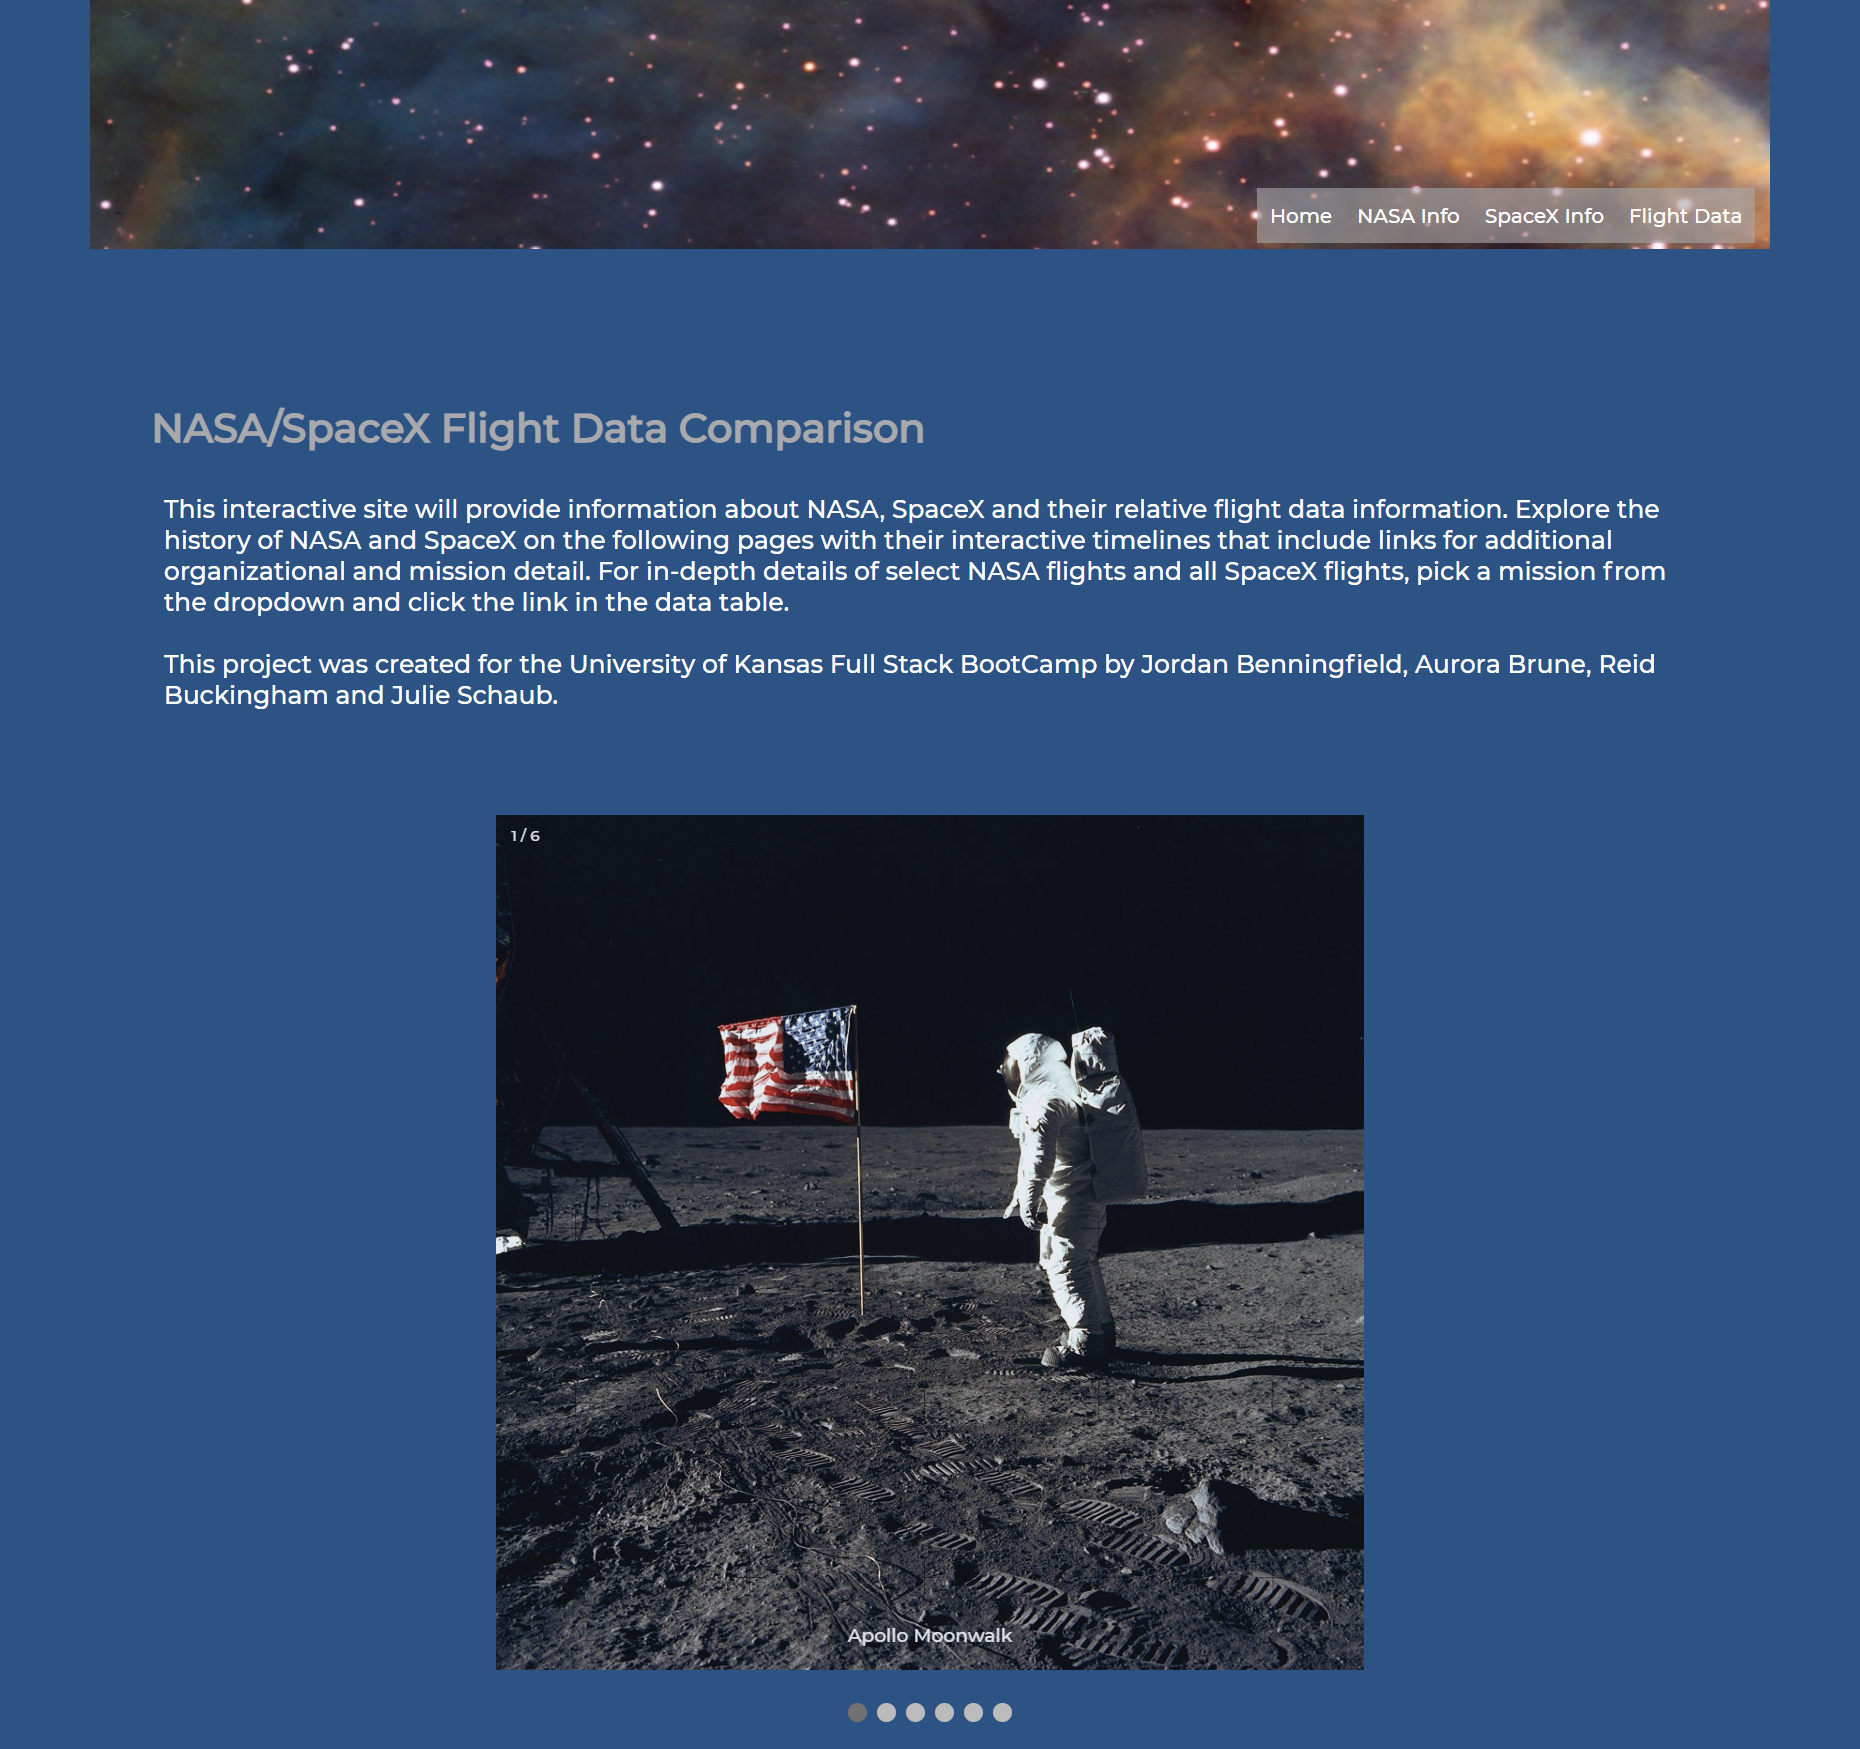
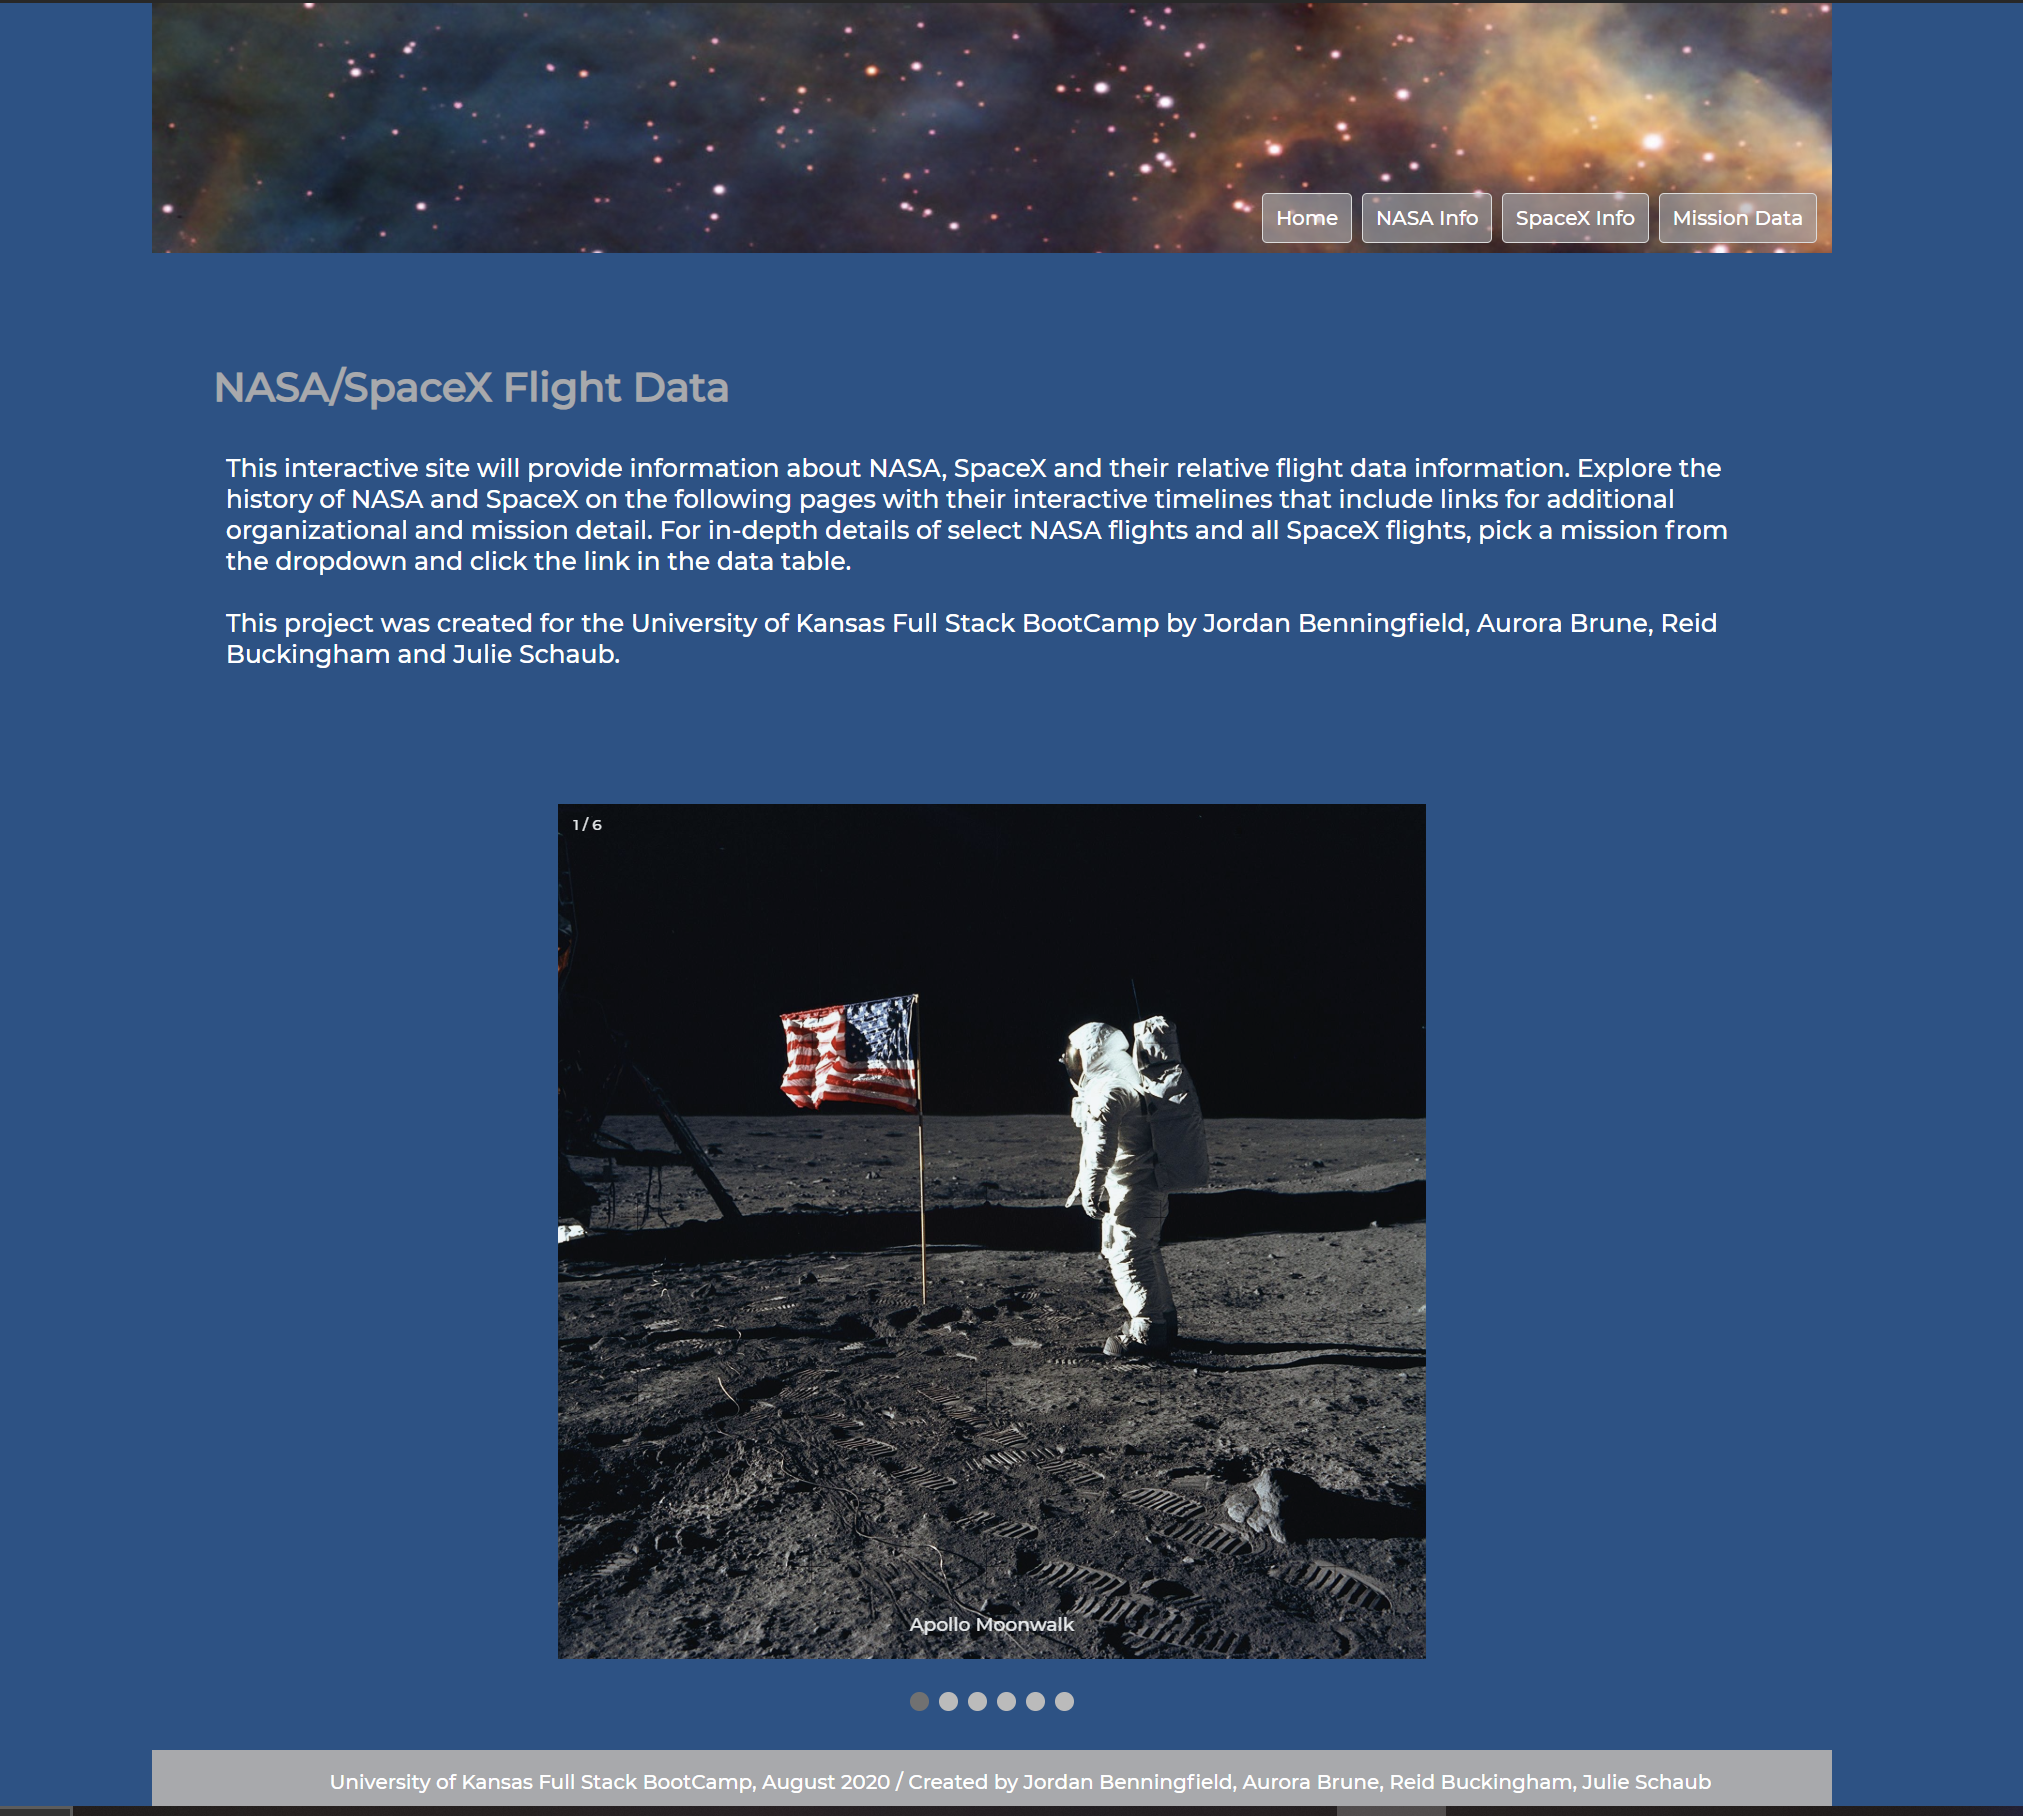
final files

diff --git a/portfolio.html b/portfolio.html
@@ -20,8 +20,8 @@
   <link href="https://fonts.googleapis.com/css2?family=Montserrat:wght@500&display=swap" rel="stylesheet">
   <link href="https://fonts.googleapis.com/css2?family=Merienda:wght@700&display=swap" rel="stylesheet">
       <!-- Link to favicon -->
-  <link rel="shortcut icon" href="ImageAssets/ampersand.png">
-  <title>Home-Portfolio</title>
+      <link rel="shortcut icon" href="./Assets/midtown fullstack Logo.png">
+  <title>Portfolio Page-Portfolio</title>
 </head>
 
 <body id="body">
@@ -29,7 +29,7 @@
   <div class="block">
     <nav class="navbar" id=navbar role="navigation" aria-label="main navigation">
     <div class="navbar-brand">
-     <img src="./Assets/ampersand.png" alt="Ampersand">
+      <img src="./Assets/midtown fullstack Logo.png" alt="Midtown FullStack Logo">
       </a>
   
     <div id="navbarBasicExample">
@@ -71,48 +71,52 @@
               <div id="carousel-demo" class="carousel">
                 <div class="item-1">
                   <img id="slidePics" src="./Assets/SpaceX2.png" alt="Spacex Project" style="width:500px"><br><br>
-                  <h3 class="title is-3" id="description">Description of Project: This interactive site provides information about NASA, SpaceX and their 
+                  <h3 class="title is-3" id="description">Project Title: Spacex/NASA Flight Data - Group Project 1<br>
+                    Description of Project: This interactive site provides information about NASA, SpaceX and their 
                     relative flight data information. Explore the history of NASA and SpaceX on the following pages with their interactive timelines that 
                     include links for additional organizational and mission detail. For in-depth details of select NASA flights and all SpaceX flights, pick 
                     a mission from the dropdown and click the link in the data table.<br>
                     Technologies Used: HTML, Bulma, CSS, Javascript, jQuery, AJAX, API Calls NASA, SpaceX and DarkSky, moment.js<br>
-                    Grade: Pending<br>
-                    Link to GitHub:  <a href="https://github.com/reidbuckingham48/spacex-nasa-flight-data-comparison" target="_blank"> https://github.com/reidbuckingham48/spacex-nasa-flight-data-comparison</a><br>
-                    Link to Deployed Project:<a href="https://reidbuckingham48.github.io/spacex-nasa-flight-data-comparison/ target="_blank">https://reidbuckingham48.github.io/spacex-nasa-flight-data-comparison/</a><br>
+                    Grade: A-<br>
+                    Link to GitHub: <a href="https://github.com/reidbuckingham48/spacex-nasa-flight-data" target="_blank"> https://github.com/reidbuckingham48/spacex-nasa-flight-data</a><br>
+                    Link to Deployed Project: <a href="https://reidbuckingham48.github.io/spacex-nasa-flight-data/ target="_blank">https://reidbuckingham48.github.io/spacex-nasa-flight-data/</a><br>
                   </h3>
                 </div>
                 <div class="item-2">
                   <img id="slidePics" src="./Assets/Weather-Dashboard2.png" alt="Weather Dashboard" style="width:500px" ><br><br>
-                  <h3 class="title is-3" id="description">Description of Project: This interactive weather app displays temperature, humidity, wind speed, UV index 
+                  <h3 class="title is-3" id="description">Project Title: Weather Dashboard<br>
+                    Description of Project: This interactive weather app displays temperature, humidity, wind speed, UV index 
                     and a weather icon for the current day. The five-day forecast displays the projected temperature at 5pm local time, humidity and weather icon. 
                     Users enter a city and click search to display results. Past cities searched are stored and displayed underneath.<br>
                     Technologies Used: HTML, Bootstrap, CSS, JavaScript, jQuery, OpenWeather API Call, Ajax<br>
                     Grade: A-<br>
-                    Link to GitHub:<a href="https://github.com/JulieAnn2330/weather-dashboard" target="_blank"> https://github.com/JulieAnn2330/weather-dashboard</a><br>
-                    Link to Deployed Project:<a href="https://julieann2330.github.io/weather-dashboard/" target="_blank">https://julieann2330.github.io/weather-dashboard/</a><br>
+                    Link to GitHub: <a href="https://github.com/JulieAnn2330/weather-dashboard" target="_blank"> https://github.com/JulieAnn2330/weather-dashboard</a><br>
+                    Link to Deployed Project: <a href="https://julieann2330.github.io/weather-dashboard/" target="_blank">https://julieann2330.github.io/weather-dashboard/</a><br>
                   </h3>
                 </div>
                 <div class="item-3">
                   <img id="slidePics" src="./Assets/Code-Quiz2.png" alt="Code Quiz" style="width:500px"><br><br>
-                  <h3 class="title is-3" id="description">Description of Project: This timed, interactive quiz tests students' knowledge
+                  <h3 class="title is-3" id="description">Project Title: Code Quiz<br>
+                    Description of Project: This timed, interactive quiz tests students' knowledge
                   of JavaScript fundamentals. Answer a question correctly and get a point; answer incorrectly and lose a point and 10
                   seconds off the clock. At the end of the quiz the user gets a page displaying their score.<br>
                   Technologies Used: HTML, Bootstrap, CSS, JavaScript, moment.js<br>
                   Grade: A+<br>
-                  Link to GitHub:   <a href="https://github.com/JulieAnn2330/code-quiz" target="_blank"> https://github.com/JulieAnn2330/code-quiz</a><br>
-                  Link to Deployed Project:<a href="https://julieann2330.github.io/code-quiz/" target="_blank">https://julieann2330.github.io/code-quiz/</a><br>
+                  Link to GitHub: <a href="https://github.com/JulieAnn2330/code-quiz" target="_blank"> https://github.com/JulieAnn2330/code-quiz</a><br>
+                  Link to Deployed Project: <a href="https://julieann2330.github.io/code-quiz/" target="_blank">https://julieann2330.github.io/code-quiz/</a><br>
                   </h3>
                 </div>
                 <div class="item-4">
                   <img id="slidePics" src="./Assets/Workday Scheduler3.png" alt="Workday Scheduler" style="width:500px"><br><br>
-                  <h3 class="title is-3" id="description">Description of Project: This project was for an online planning calendar. The calendar was supposed to show the hours from 9am to 5pm. I extended this 
+                  <h3 class="title is-3" id="description">Project Title: Work Day Scheduler<br>
+                    Description of Project: This project was for an online planning calendar. The calendar was supposed to show the hours from 9am to 5pm. I extended this 
                     from 8am - 8pm for further flexibility. The calendar is intuitive, click in the box and add your text, the save button will save the text, even upon 
                     refresh or closing the browser and coming back. The delete button will delete the item from the calendar completely. This last button I added 
                     for convenience. The blocks of time will recognize if they are in the past, present or future and are color coded thusly.<br>
                     Technologies Used: HTML, Bootstrap, CSS, JavaScript, moment.js, jQuery<br>
                     Grade: A<br>
                     Link to GitHub:  <a href="https://github.com/JulieAnn2330/work-day-scheduler" target="_blank"> https://github.com/JulieAnn2330/work-day-scheduler</a><br>
-                    Link to Deployed Project:<a href="https://julieann2330.github.io/work-day-scheduler/" target="_blank">https://julieann2330.github.io/work-day-scheduler/</a><br>
+                    Link to Deployed Project: <a href="https://julieann2330.github.io/work-day-scheduler/" target="_blank">https://julieann2330.github.io/work-day-scheduler/</a><br>
                   </h3>
               </div>
               </div>

diff --git a/index.html b/index.html
@@ -17,8 +17,8 @@
   <link rel="stylesheet" href="https://stackpath.bootstrapcdn.com/font-awesome/4.7.0/css/font-awesome.min.css">
   <!-- Link to Google Font -->
   <link href="https://fonts.googleapis.com/css2?family=Questrial&display=swap" rel="stylesheet">>
-      <!-- Link to favicon -->
-  <link rel="shortcut icon" href="ImageAssets/ampersand.png">
+   <!-- Link to favicon -->
+   <link rel="shortcut icon" href="./Assets/midtown fullstack Logo.png">
   <title>Home-Portfolio</title>
 </head>
 
@@ -27,7 +27,7 @@
   <div class="block">
     <nav class="navbar" id=navbarAboutMe role="navigation" aria-label="main navigation">
     <div class="navbar-brand">
-     <img src="./Assets/ampersand.png" alt="Ampersand">
+     <img src="./Assets/midtown fullstack Logo.png" alt="Midtown FullStack Logo">
       </a>
   
     <div id="navbarBasicExample">

diff --git a/contact.html b/contact.html
@@ -18,8 +18,8 @@
   <!-- Link to Google Font -->
   <link href="https://fonts.googleapis.com/css2?family=Montserrat:wght@500&display=swap" rel="stylesheet">
       <!-- Link to favicon -->
-  <link rel="shortcut icon" href="ImageAssets/ampersand.png">
-  <title>Home-Portfolio</title>
+      <link rel="shortcut icon" href="./Assets/midtown fullstack Logo.png">
+  <title>Contact-Portfolio</title>
 </head>
 
 <body id="body">
@@ -27,7 +27,7 @@
   <div class="block">
     <nav class="navbar" id=navbar role="navigation" aria-label="main navigation">
     <div class="navbar-brand">
-     <img src="./Assets/ampersand.png" alt="Ampersand">
+      <img src="./Assets/midtown fullstack Logo.png" alt="Midtown FullStack Logo">
       </a>
   
     <div id="navbarBasicExample">

diff --git a/style.css b/style.css
@@ -84,6 +84,7 @@ img {
   background-color: lightgray;
   margin-top: -25px;
   font-family: 'Questrial', sans-serif;
+  font-size: 20px;
   
 }
 
